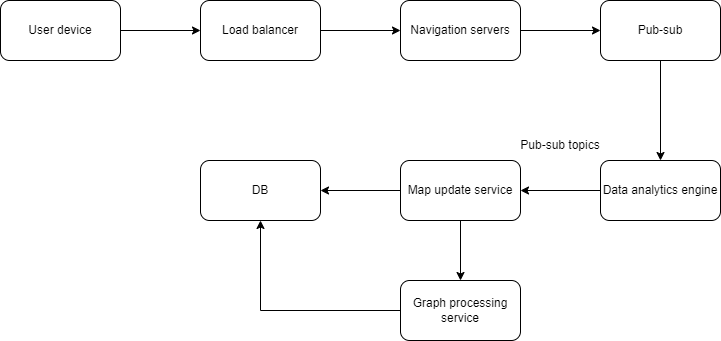
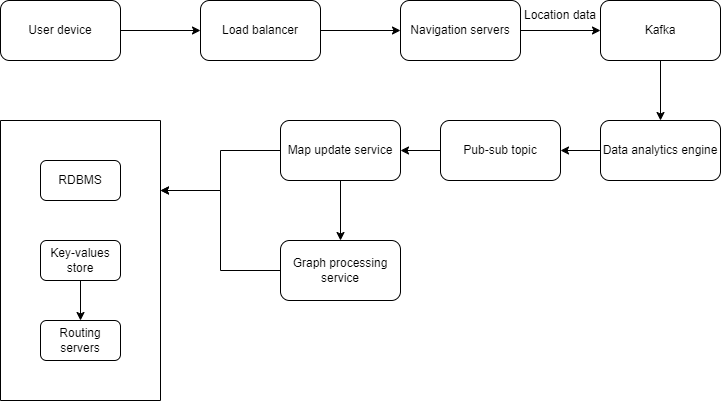
update

diff --git a/sofrware-engineering/2-google-maps.html b/sofrware-engineering/2-google-maps.html
@@ -267,30 +267,34 @@
 
     <img class="img-fluid" class="card-img-top" src="/img/system-design/google-map2.png" alt="Card image cap">
 
-    <h3 class="card-title">Sub-graphs</h3>
+    <h3 class="card-title">Add segment</h3>
     <ul>
-      <li>Computing distances between two points on the entire graph is super expensive</li>
-      <li>Precalculate the shortest distance between two points in sub-graphs. Also, cache most requested routes</li>
-      <li>Connect sub-graphs and run the shortest distance algorithm</li>
-    </ul>
-
-    <h3 class="card-title">Segment adder</h3>
-    <ul>
+      <li>Each segment has its lat/long coordinates of boundary and the graph of road network</li>
       <li>Segment adder assigns unique ID to each segment</li>
-      <li>Segment is assigned to a server and segment adder gets the server_id</li>
-      <li>Key-value store keeps the segment to server mapping</li>
+      <li>Segment adder forwards segment information to server allocator</li>
+      <li>Server allocator maps segment to server, hosts the graph on the server, and returns server ID</li>
+      <li>Segment adder stores segment to server mapping in key-value store</li>
     </ul>
 
-
+    <h3 class="card-title">Handle user request</h3>
+    <ul>
+      <li>User provides source and destination</li>
+      <li>Distributed search finds lat/long coordicates of source and destination</li>
+      <li>Graph processing service finds the segment from lat/long coordicates</li>
+      <li>Graph processing service finds the server hosting the graph using segment ID</li>
+      <li>Graph processing service runs shortest path algorithm</li>
+    </ul>
 
     <img class="img-fluid" class="card-img-top" src="/img/system-design/google-map3.png" alt="Card image cap">
 
-    <h3 class="card-title">ETA improvement</h3>
+    <h3 class="card-title">Improve estimations using live data</h3>
     <ul>
+      <li>Websocker provides persistent connection between user devices and the servers</li>
+      <li>Load balancer balances the connection load</li>
       <li>Kafka collects location data from all servers</li>
-      <li>Data analytics engine predicts traffic on the roads, identify hotspots. It then publishes analytics data to new pub-sub topic</li>
-      <li>Map update service updates the segment graphs</li>
-      <li>Graph preprocessing service recalculates new paths on the updated segment graph</li>
+      <li>Data analytics engine uses ML to improve ETA. Then, it publishes result to pub-sub topic</li>
+      <li>Map update service listens for updates and updates segment graph</li>
+      <li>Graph preprocessing service recalculates the new paths on the updated segment graph</li>
     </ul>
   </div>
   <div class="card-footer text-muted">
@@ -340,6 +344,27 @@
   <div class="card-body">
     <h2 class="card-title">Distinct component</h2>
 
+    <h3 class="card-title">Sub-graphs</h3>
+    <ul>
+      <li>Computing distances between two points on the entire graph is super expensive</li>
+      <li>Precalculate the shortest distance between two points in sub-graphs. Also, cache most requested routes</li>
+      <li>Connect sub-graphs and run the shortest distance algorithm</li>
+    </ul>
+
+    <h3 class="card-title">Segment adder</h3>
+    <ul>
+      <li>Segment adder assigns unique ID to each segment</li>
+      <li>Segment is assigned to a server and segment adder gets the server_id</li>
+      <li>Key-value store keeps the segment to server mapping</li>
+    </ul>
+
+    <h3 class="card-title">ETA improvement</h3>
+    <ul>
+      <li>Kafka collects location data from all servers</li>
+      <li>Data analytics engine predicts traffic on the roads, identify hotspots. It then publishes analytics data to new pub-sub topic</li>
+      <li>Map update service updates the segment graphs</li>
+      <li>Graph preprocessing service recalculates new paths on the updated segment graph</li>
+    </ul>
   </div>
   <div class="card-footer text-muted">
     <a href="https://www.educative.io/path/deep-dive-into-system-design-interview">Deep Dive into System Design Interview</a>
